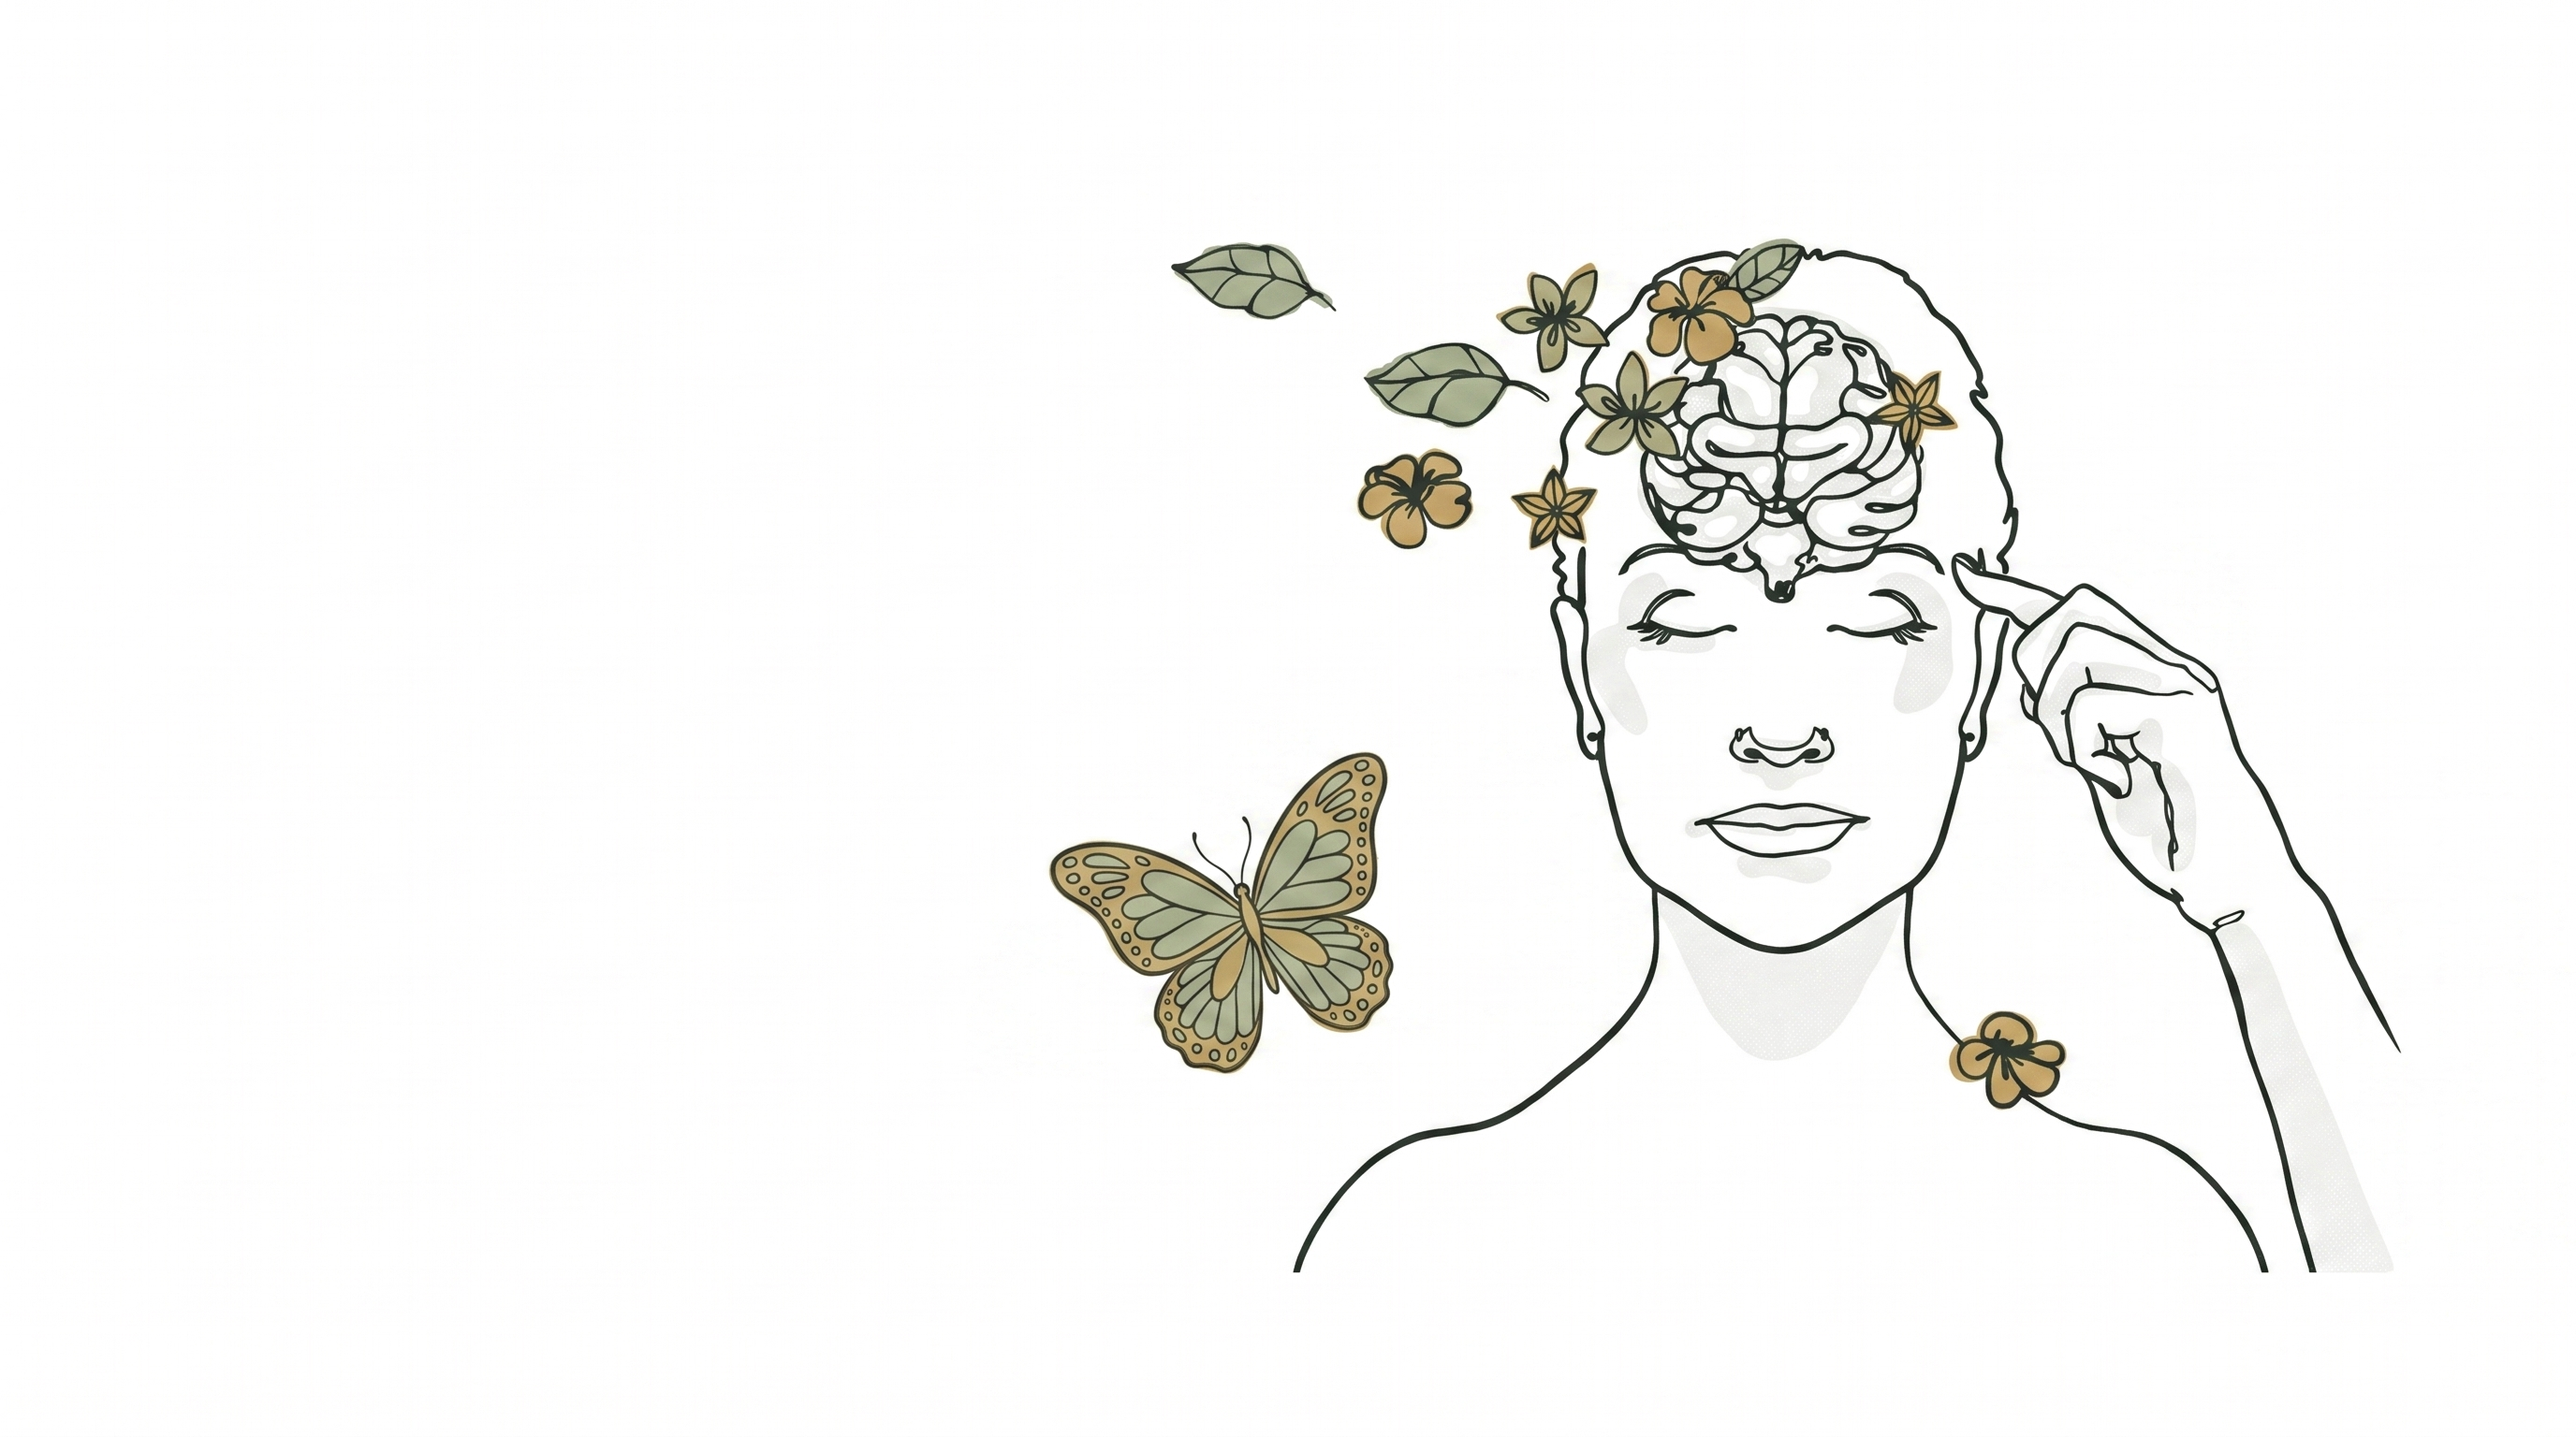
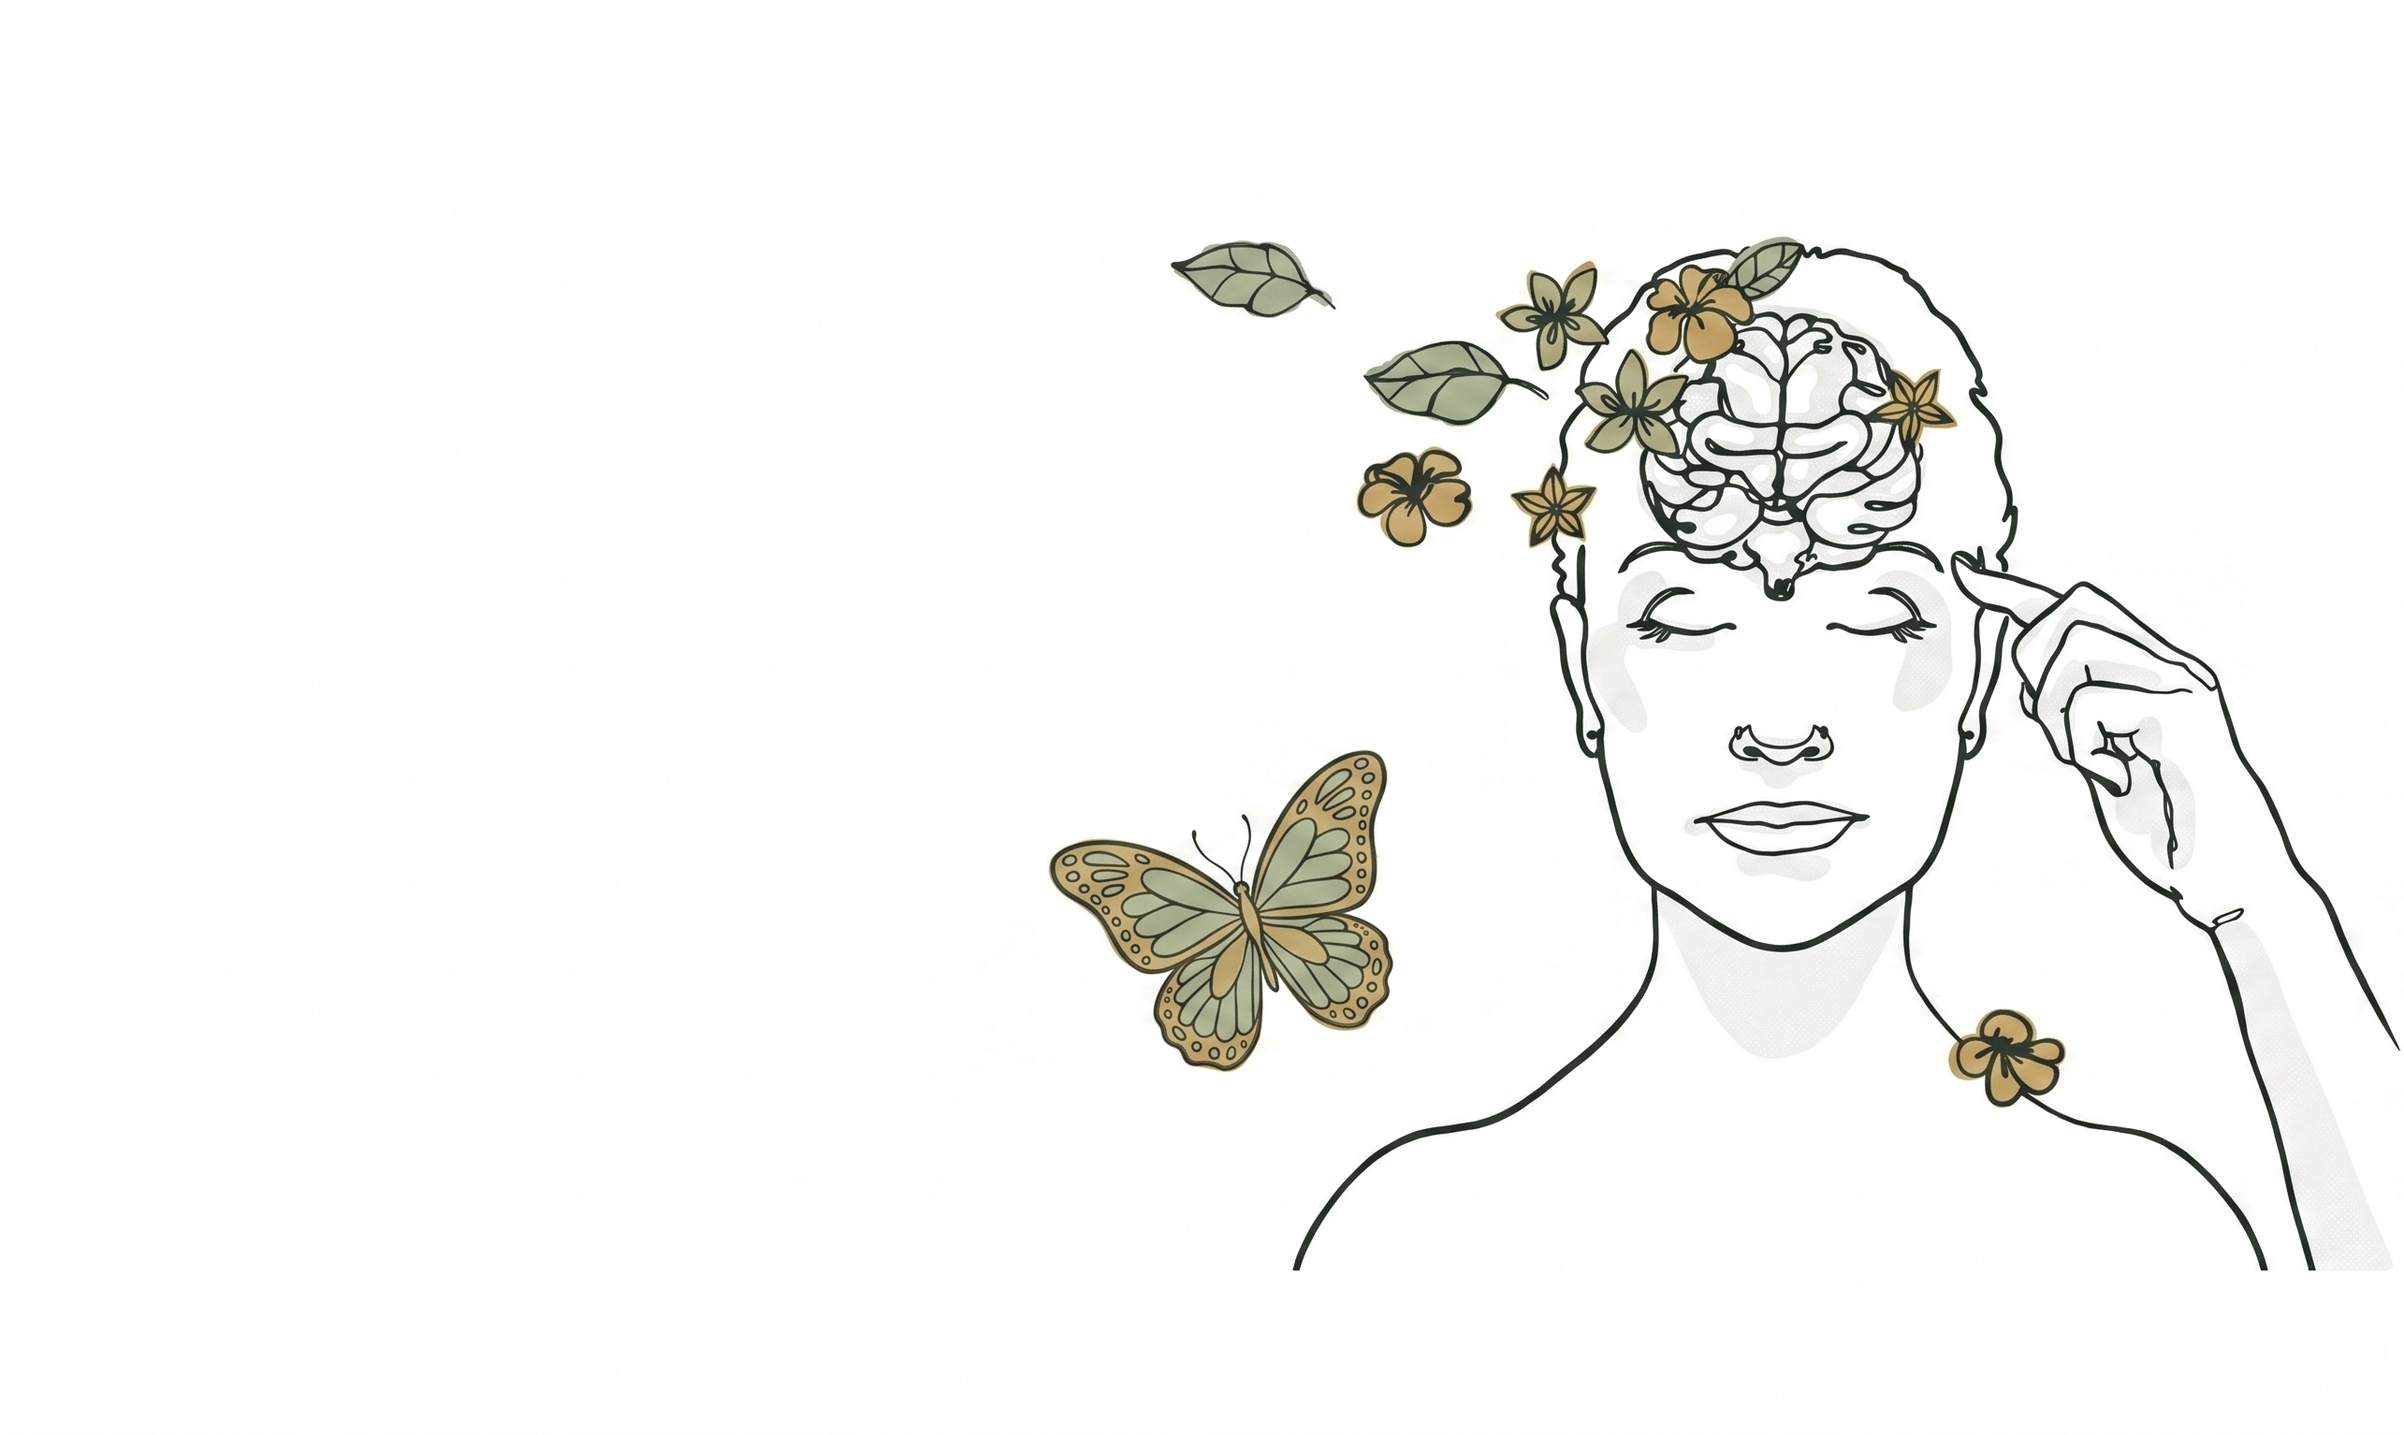
Update TreatmentProcess background sizing and refresh image asset
- Changed background-size from contain to cover for better image coverage
- Image asset refreshed to ensure proper display
- Text remains left-aligned with white background

diff --git a/src/components/TreatmentProcess.vue b/src/components/TreatmentProcess.vue
@@ -60,7 +60,7 @@ const steps = [
   padding: clamp(3rem, 8vw, 5.5rem) clamp(1.25rem, 5vw, 4rem);
   background-color: white;
   background-image: url('/image4.jpeg');
-  background-size: contain;
+  background-size: cover;
   background-repeat: no-repeat;
   background-position: left center;
   background-attachment: scroll;
